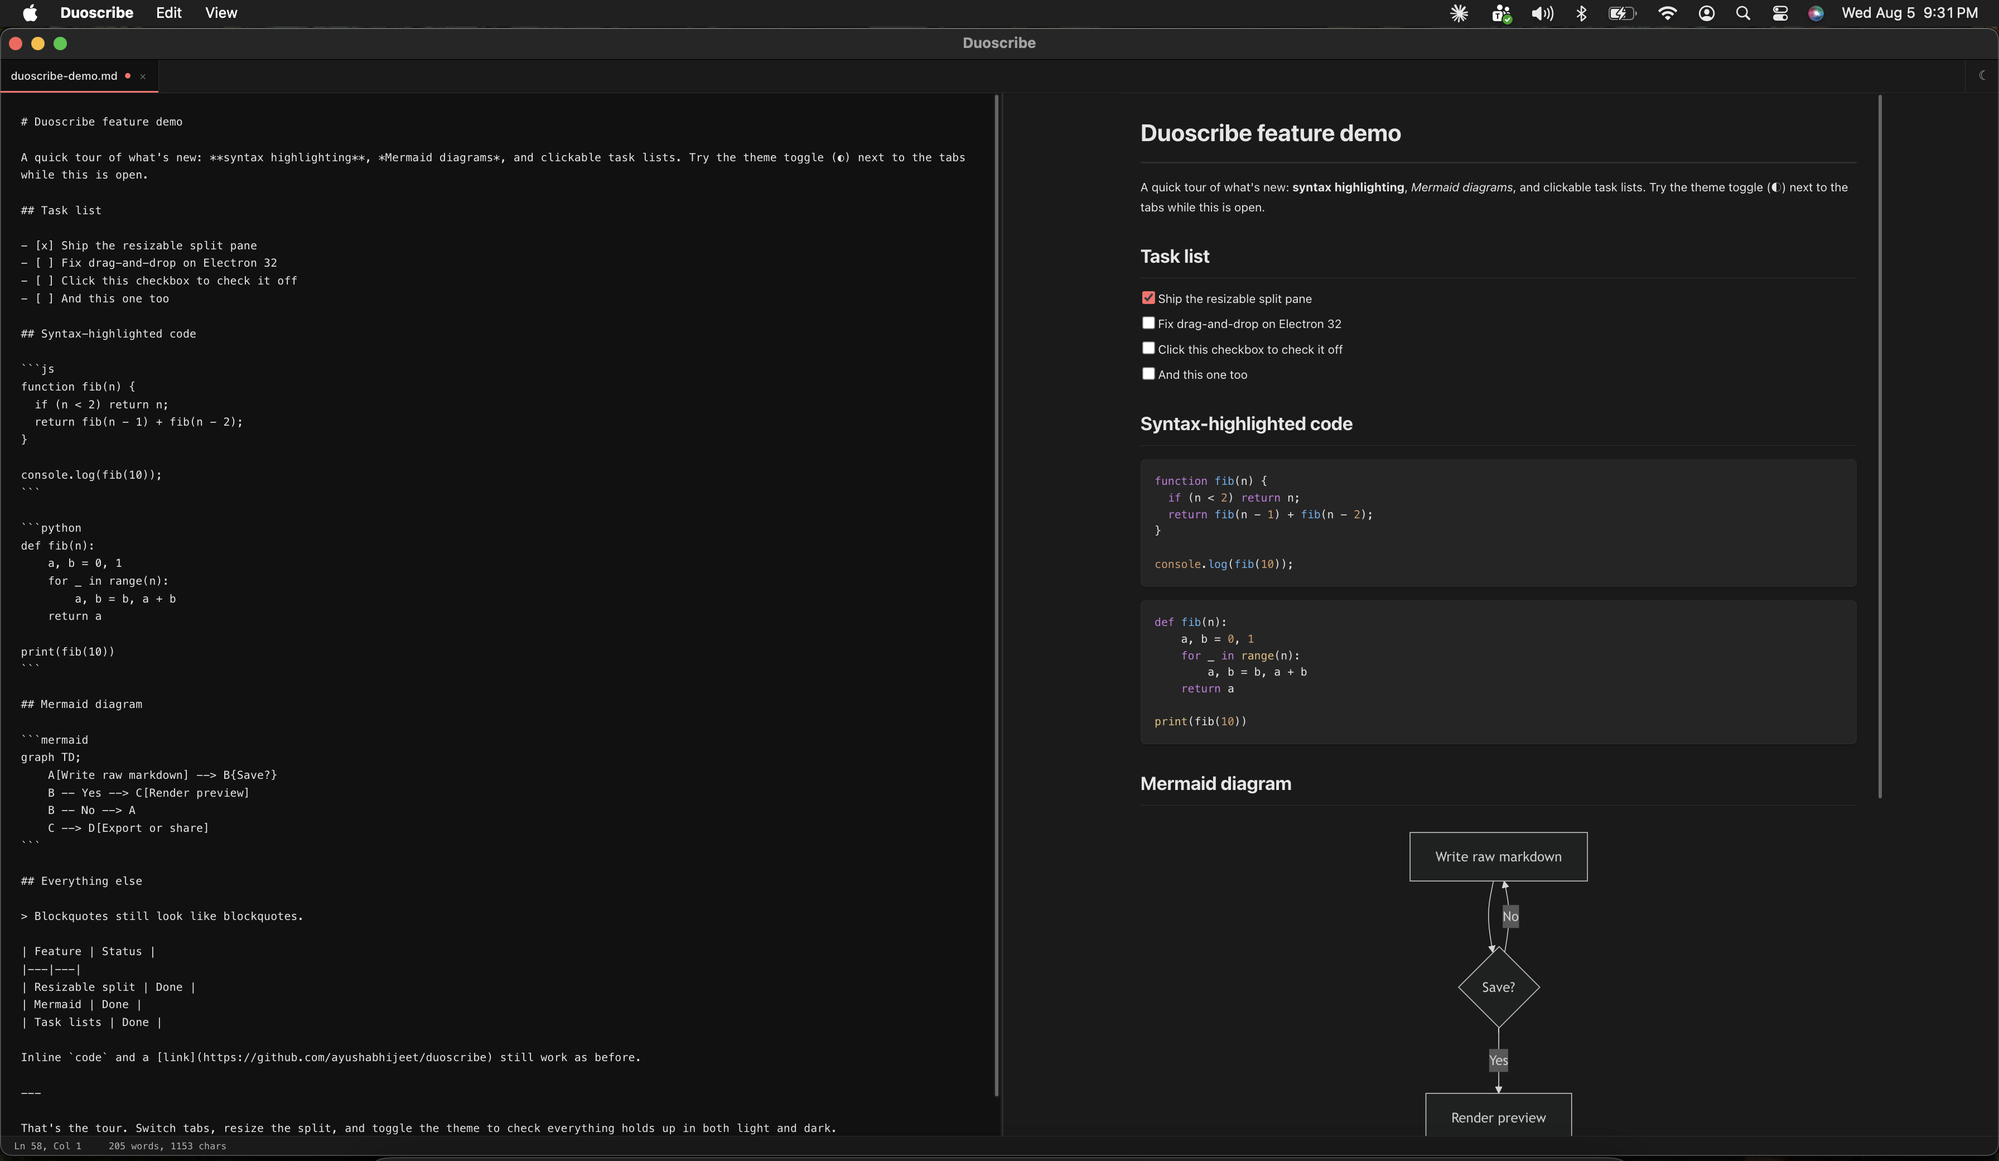
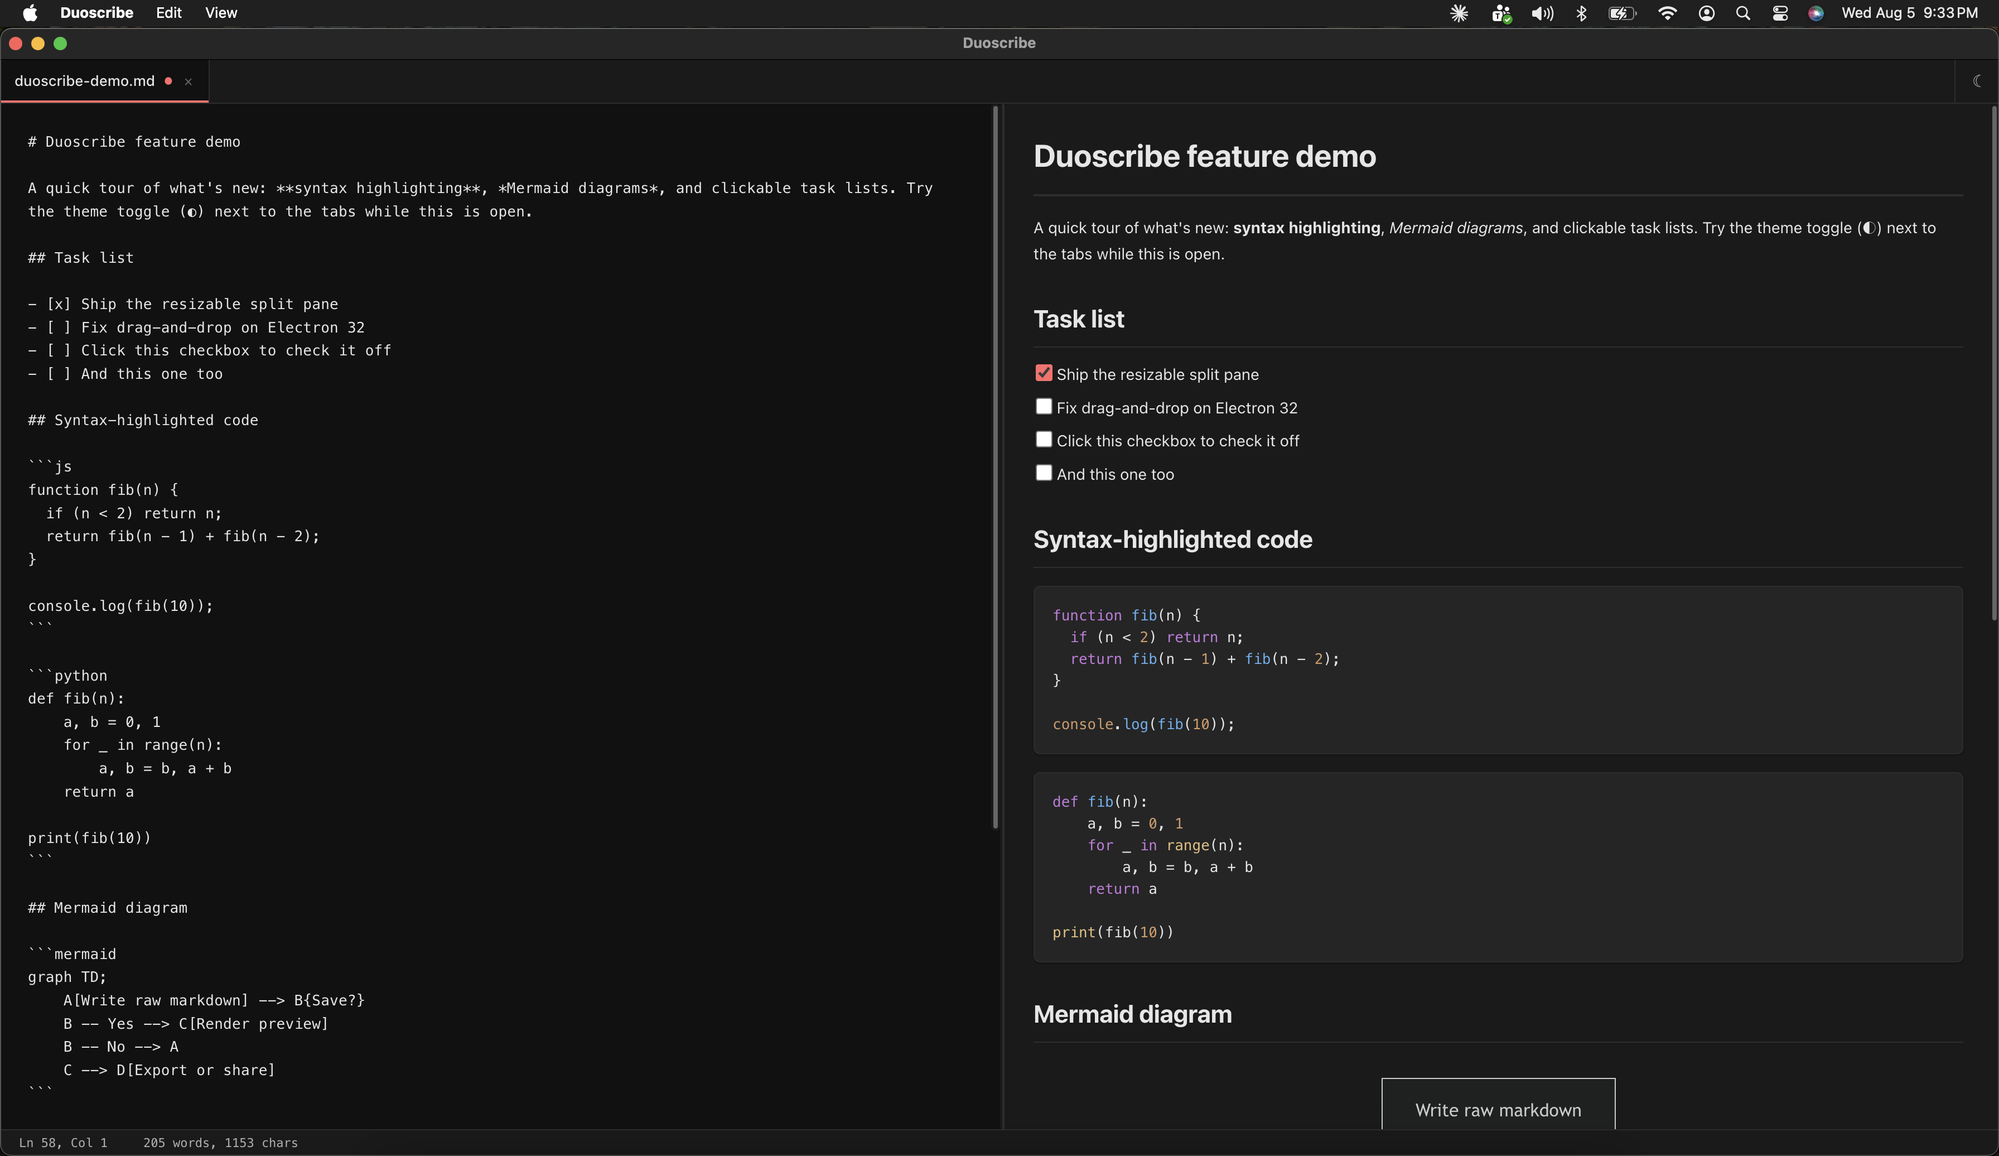
Swap in better screenshots (task list/code + mermaid/table), drop the cropped one

diff --git a/docs/index.html b/docs/index.html
@@ -495,7 +495,8 @@
       <p class="eyebrow">-- the real thing</p>
       <h2>Syntax highlighting, task lists, and Mermaid diagrams — actually rendered</h2>
     </div>
-    <img class="app-screenshot" src="screenshots/app-screenshot.png" alt="Duoscribe window showing a task list with checkboxes, syntax-highlighted JavaScript and Python code blocks, and a rendered Mermaid flowchart, all in the right-hand preview pane" />
+    <img class="app-screenshot" src="screenshots/app-screenshot.png" alt="Duoscribe window showing a task list with checkboxes and syntax-highlighted JavaScript and Python code blocks in the right-hand preview pane" />
+    <img class="app-screenshot" src="screenshots/app-screenshot-2.png" alt="Duoscribe window showing a rendered Mermaid flowchart, a table, and a blockquote in the right-hand preview pane" style="margin-top: 16px;" />
   </div>
 </section>
 
